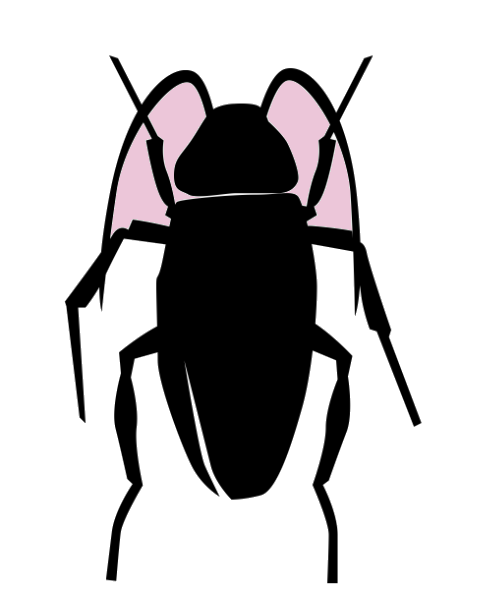
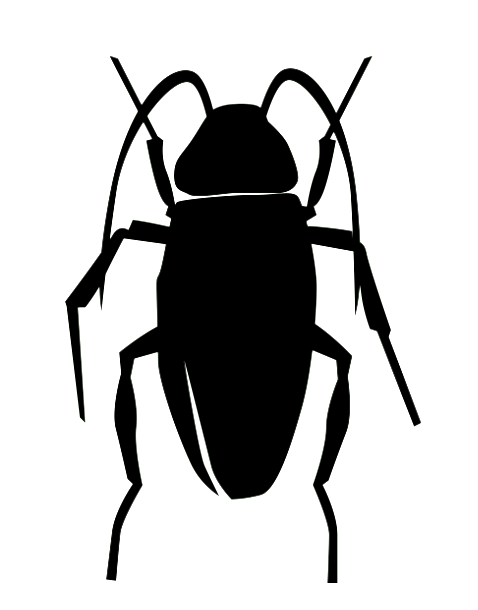
Update styling

diff --git a/styles/style.css b/styles/style.css
@@ -1,47 +1,61 @@
-html {
-  background-color: #ecc6d9;
+:focus {
+  outline: #dec6ec auto 6px;
 }
 
 h1 {
-  font-family: 'Shrikhand', cursive;
+  font-family: 'Viga', monospace;
   font-size: 60px;
   margin-bottom: 0px;
   text-align: center;
+  font-weight: 400;
 }
 h3 {
-/*font-family: 'Didact Gothic', sans-serif;*/
-font-weight: 500;
-text-align: center;
-margin-top: 0px;
-font-family: 'Roboto Mono', monospace;
-border-bottom: 2px solid #f9ecf2;
-padding-bottom: 20px;
+  font-weight: 500;
+  text-align: center;
+  margin-top: 0px;
+  font-family: monospace;
 }
 
 p, li {
-  font-family: 'Roboto Mono', monospace;
+  font-family: monospace;
   font-weight: 500;
   padding: 10px 40px;
 }
 
+.header {
+  padding-bottom: 20px;
+  text-align: center;
+  margin-bottom: 20px;
+}
+
+.header-name {
+  text-align: center;
+  margin-bottom: 20px;
+}
+
+.navbar {
+  display: inline-block;
+}
+
 button {
-  font-family: 'Roboto Mono', monospace;
-  padding: 20px;
+  width:36%;
+  text-align: left;
+  font-family: monospace;
   font-size: 40px;
-  background-color: #ecc6d9;
-  border: 5px solid #f9ecf2;
+  color: #ece2c6;
+  background-color: #000000;
+  border: none;
 }
 
 button:hover {
   cursor: pointer;
+  color: #000000;
   background-color: #f9ecf2 ;
-  border: 5px solid #ecc6d9;
+  /* border: 5px solid #ecc6c6; */
 }
 
-
 #projects-title {
-  border-bottom: 2px solid #f9ecf2;
-  padding-bottom: 20px;
+  display: inline-block;
 }
 
 img {
@@ -60,7 +74,7 @@ img {
   position: absolute;
   top: 47%;
   left: 47%;
-  font-family: 'Roboto Mono', monospace;
+  font-family: monospace;
   font-size: 18px;
   text-align: end;
 }
@@ -73,22 +87,22 @@ img {
 }
 
 .portfolio-link:hover, .portfolio-link:focus {
-  color: #ffb3d9;
+  color: #ece2c6;
   font-weight: bold;
   background-color: black;
 }
 
 .media-link-container {
-  font-family: 'Roboto Mono', monospace;
+  font-family: monospace;
+  margin-left: 20%;
 }
 
 .media-link-container a {
-  color: #f9ecf2;
+  color: black;
 }
 
 .media-link-container a:hover {
   background-color: #f9ecf2;
-  color: black;
 }
 
 /* EVERY MODERN WEBSITE NEEDS AT LEAST ONE BUG */
@@ -116,9 +130,10 @@ img {
 
 /* PROJECTS */
 #projects-list {
+  padding-left: 20%;
   font-weight: 500;
-  text-align: center;
-  font-family: 'Roboto Mono', monospace;
+  /* text-align: center; */
+  font-family: monospace;
   list-style-type: none;
 }
 

diff --git a/about.html b/about.html
@@ -4,14 +4,13 @@
     <meta charset="utf-8">
     <title>Anne Vetto</title>
     <link href="styles/style.css" rel="stylesheet" type="text/css">
-    <link href="https://fonts.googleapis.com/css?family=Roboto+Mono|Shrikhand" rel="stylesheet">
-
+    <link href="https://fonts.googleapis.com/css?family=Viga" rel="stylesheet">
   </head>
   <body>
     <div class="header">
       <h1 id="projects-title">About Anne</h1>
     </div>
-    <p>I'm a serious and spunky software engineer based in Los Angeles. I have a background in neurodegenerative disease research and pivoted to programming to combine my mutlidisciplinary interests, compelled by the possibility to create anything simply using my keyboard. As a frontend developer, I care about maintainability, performance, accessibility and femme representation in tech.</p>
+    <p>I'm a software engineer and creative based in Los Angeles. I have a background in neurodegenerative disease research and pivoted to programming to combine my mutlidisciplinary interests, compelled by the possibility to create anything simply using my keyboard. As a frontend developer, I care about maintainability, performance, accessibility and femme representation in tech.</p>
 
     <p>A primary motivation of mine is to combine my hard science background with my interests in a creative way, with a few main foci:
       <ul>

diff --git a/projects.html b/projects.html
@@ -4,12 +4,15 @@
     <meta charset="utf-8">
     <title>Anne Vetto</title>
     <link href="styles/style.css" rel="stylesheet" type="text/css">
-    <link href="https://fonts.googleapis.com/css?family=Roboto+Mono|Shrikhand" rel="stylesheet">
-
+    <link href="https://fonts.googleapis.com/css?family=Viga" rel="stylesheet">
+    <link href="https://fonts.googleapis.com/css?family=Nova+Mono" rel="stylesheet">
   </head>
   <body>
     <div class="header">
       <h1 id="projects-title">Projects</h1>
+      <div class="navbar">
+        <a href="/index.html">home</a>
+      </div>
     </div>
     <ul id="projects-list">
       <li><button onclick="toggleProject('project-info--bitzbots')">BitzBots</button></li>

diff --git a/index.html b/index.html
@@ -2,15 +2,13 @@
 <html>
   <head>
     <meta charset="utf-8">
-    <title>Anne Vetto</title>
+    <title>anne vetto</title>
     <link href="styles/style.css" rel="stylesheet" type="text/css">
-    <link href="https://fonts.googleapis.com/css?family=Roboto+Mono|Shrikhand" rel="stylesheet">
-
+    <link href="https://fonts.googleapis.com/css?family=Viga" rel="stylesheet">
   </head>
   <body>
-    <div class="header">
+    <div class="header-name">
       <h1>Anne Vetto</h1>
-      <h3>software developer && creative</h3>
     </div>
     <div class="portfolio-link-container">
       <img src="images/pinkfloppytransparent.png" alt="pink floppy disc">

diff --git a/exhibitions.html b/exhibitions.html
@@ -4,8 +4,7 @@
     <meta charset="utf-8">
     <title>Anne Vetto</title>
     <link href="styles/style.css" rel="stylesheet" type="text/css">
-    <link href="https://fonts.googleapis.com/css?family=Roboto+Mono|Shrikhand" rel="stylesheet">
-
+    <link href="https://fonts.googleapis.com/css?family=Viga" rel="stylesheet">
   </head>
   <body>
     <div class="header">

diff --git a/work.html b/work.html
@@ -4,8 +4,7 @@
     <meta charset="utf-8">
     <title>Anne Vetto</title>
     <link href="styles/style.css" rel="stylesheet" type="text/css">
-    <link href="https://fonts.googleapis.com/css?family=Roboto+Mono|Shrikhand" rel="stylesheet">
-
+    <link href="https://fonts.googleapis.com/css?family=Viga" rel="stylesheet">
   </head>
   <body>
     <div class="header">

diff --git a/publications.html b/publications.html
@@ -4,7 +4,7 @@
     <meta charset="utf-8">
     <title>Anne Vetto</title>
     <link href="styles/style.css" rel="stylesheet" type="text/css">
-    <link href="https://fonts.googleapis.com/css?family=Roboto+Mono|Shrikhand" rel="stylesheet">
+    <link href="https://fonts.googleapis.com/css?family=Viga" rel="stylesheet">
   </head>
   <body>
     <div class="header">
